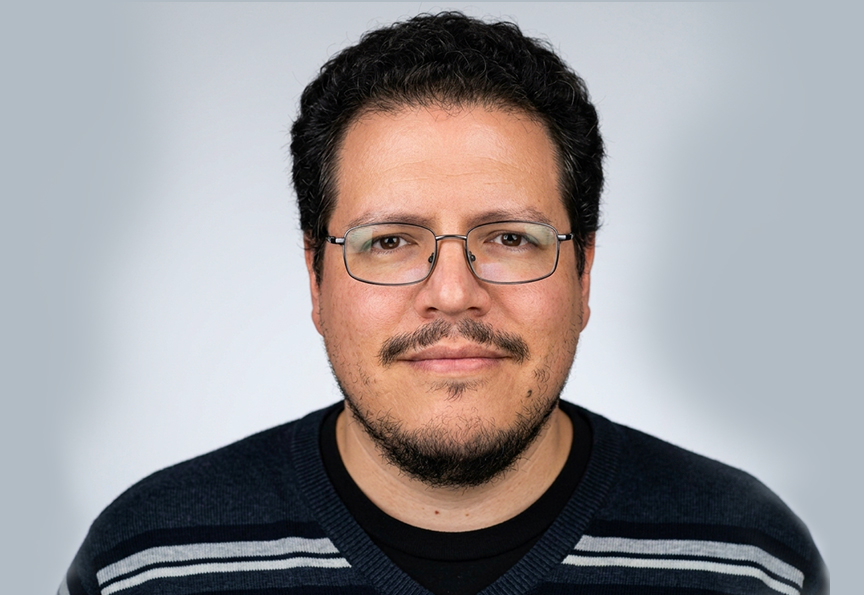
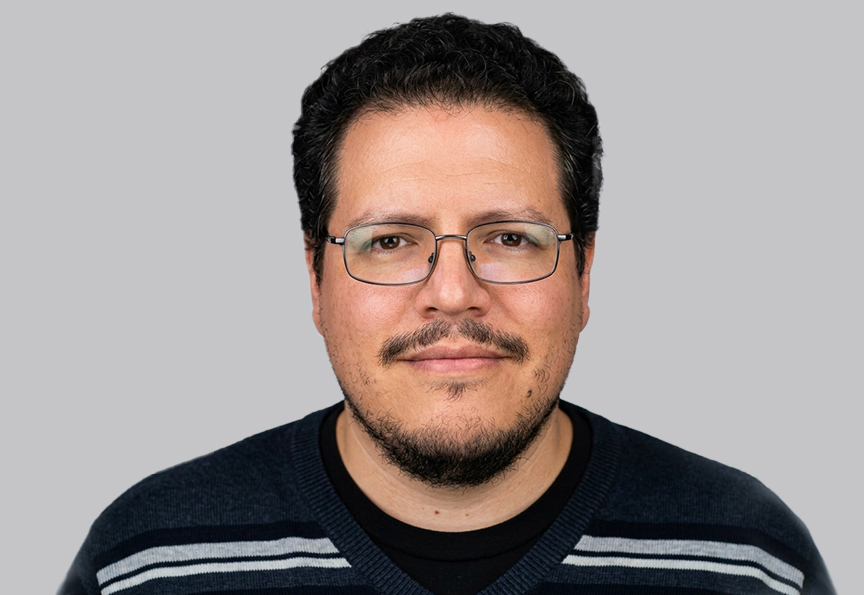
Address client review comments
1. Fix the broken Suiza-Bolivia 80th-anniversary logo: the filename
   used macOS's decomposed Unicode form (NFD) for its accented
   characters while the HTML reference used precomposed (NFC) —
   byte-different strings that happen to look identical, which
   resolves fine on a case/normalization-insensitive Mac filesystem
   but 404s on GitHub Pages' Linux host. Renamed to an ASCII-safe
   filename to avoid the whole class of bug.
2. Add UMSA, Embajada de Suecia, and planetGOLD to the footer's
   sponsor list (previously only Aceleratec and Embajada de Suiza).
6. Fill in six of the ten remaining "Sesiones informativas"
   placeholders with the confirmed panelists from Diego's cronograma
   (Noemí Tirado, Daniel Cruz, the mercury/gold-mining seminar's real
   title, Oscar Campanini, Armando Álvarez, and Håkan Tarras-Wahlberg).
7. Replace the placeholder contact email with the real one
   (comunicacion@aceleratec.org), now a working mailto: link.

Items 4 and 5 from the review were explicitly skipped per request.

diff --git a/site/index.html b/site/index.html
@@ -302,7 +302,7 @@
       <img src="assets/Logo-del-escudo-de-Suiza.png" alt="Escudo de Suiza">
       <img src="assets/Logo-de-la-Embajada-de-Suiza.jpg" alt="Logo de la Embajada de Suiza">
       </span>
-      <img src="assets/Logo-80-años-de-relaciones-diplomáticas-Suiza-Bolivia.jpg" alt="80 años de relaciones diplomáticas Suiza–Bolivia">
+      <img src="assets/Logo-80-anos-Suiza-Bolivia.jpg" alt="80 años de relaciones diplomáticas Suiza–Bolivia">
       <span class="sponsor-logos">
       <img src="assets/Logo-de-ONUDI.png" alt="Logo de ONUDI">
       <img src="assets/Logo-de-PlanetGOLD.png" alt="Logo de planetGOLD">
@@ -437,18 +437,18 @@
         <div class="day-row cont"><span class="date">Mar 13 oct</span><span class="time">09:45–10:00</span><span class="what">Foto oficial, preguntas y comentarios</span></div>
         <div class="day-row cont"><span class="date">Mar 13 oct</span><span class="time">10:00–10:30</span><span class="what">Desayuno y networking</span></div>
         <div class="day-row"><span class="date">13 – 18 oct</span><span class="time">—</span><span class="what">Difusión e inscripciones en facultades, carreras e instituciones socias<span class="where">Todos los socios</span></span></div>
-        <div class="day-row"><span class="date">Mar 20 oct</span><span class="time">19:00–20:30</span><span class="what">Salud: [Presentación 1]<span class="where">UMSA</span></span></div>
-        <div class="day-row"><span class="date">Jue 22 oct</span><span class="time">19:00–20:30</span><span class="what">Salud: [Presentación 2]<span class="where">OPS/OMS</span></span></div>
-        <div class="day-row"><span class="date">Mar 27 oct</span><span class="time">09:00–14:00</span><span class="what">Seminario «Presentación de resultados de investigación»<span class="where">UMSA · Paraninfo</span></span></div>
+        <div class="day-row"><span class="date">Mar 20 oct</span><span class="time">19:00–20:30</span><span class="what">Salud: Noemí Tirado<span class="where">UMSA</span></span></div>
+        <div class="day-row"><span class="date">Jue 22 oct</span><span class="time">19:00–20:30</span><span class="what"><span>Salud: Daniel Cruz<span class="tag-onsite">Presencial</span></span><span class="where">OPS/OMS</span></span></div>
+        <div class="day-row"><span class="date">Mar 27 oct</span><span class="time">09:00–14:00</span><span class="what">Seminario «Mercurio y minería aurífera en Bolivia: evidencia científica, impactos y desafíos para la acción»<span class="where">UMSA · Paraninfo</span></span></div>
         <div class="day-row cont"><span class="date">Mar 27 oct</span><span class="time">19:00–20:30</span><span class="what">Medio ambiente: [Presentación 3]<span class="where">IRD</span></span></div>
         <div class="day-row"><span class="date">Jue 29 oct</span><span class="time">19:00–20:30</span><span class="what">Medio ambiente: [Presentación 4]<span class="where">WCS</span></span></div>
         <div class="day-row"><span class="date">Mar 3 nov</span><span class="time">19:00–20:30</span><span class="what"><span>Medio ambiente: [Presentación 5]<span class="tag-onsite">Networking presencial</span></span><span class="where">UMSA</span></span></div>
         <div class="day-row"><span class="date">Jue 5 nov</span><span class="time">19:00–20:30</span><span class="what">Trazabilidad: [Presentación 6]<span class="where">Ministerio de Minería · AJAM · SENARECOM</span></span></div>
         <div class="day-row"><span class="date">Mar 10 nov</span><span class="time">19:00–20:30</span><span class="what"><span>Retos y dinámicas de la producción cooperativista: [Presentación 7]<span class="tag-onsite">Networking presencial</span></span><span class="where">Sector cooperativista · Empresas mineras · planetGOLD</span></span></div>
-        <div class="day-row"><span class="date">Jue 12 nov</span><span class="time">19:00–20:30</span><span class="what">Pueblos indígenas: [Presentación 8]<span class="where">CEDIB</span></span></div>
+        <div class="day-row"><span class="date">Jue 12 nov</span><span class="time">19:00–20:30</span><span class="what">Pueblos indígenas: Oscar Campanini<span class="where">CEDIB</span></span></div>
         <div class="day-row"><span class="date">Lun 16 nov</span><span class="time">17:00–20:30</span><span class="what"><span>Capacitación especializada: metodología de hackathon, pitch, validación y prototipado<span class="tag-onsite">Presencial</span></span><span class="where">Aceleratec · entrenamiento en pitch, preparación para jurados, validación acelerada de prototipos y networking</span></span></div>
-        <div class="day-row"><span class="date">Mié 18 nov</span><span class="time">19:00–20:30</span><span class="what">Sistemas de producción: [Presentación 9]<span class="where">UMSA</span></span></div>
-        <div class="day-row"><span class="date">Vie 20 nov</span><span class="time">19:00–20:30</span><span class="what">Trazabilidad: [Presentación 10]<span class="where">planetGOLD</span></span></div>
+        <div class="day-row"><span class="date">Mié 18 nov</span><span class="time">19:00–20:30</span><span class="what">Sistemas de producción: Armando Álvarez<span class="where">UMSA</span></span></div>
+        <div class="day-row"><span class="date">Vie 20 nov</span><span class="time">19:00–20:30</span><span class="what">Trazabilidad: Håkan Tarras-Wahlberg<span class="where">planetGOLD</span></span></div>
       </div>
     </div>
 
@@ -506,10 +506,13 @@
           <span class="h">Patrocinadores</span>
           <span class="item">Aceleratec</span>
           <span class="item">Embajada de Suiza</span>
+          <span class="item">UMSA</span>
+          <span class="item">Embajada de Suecia</span>
+          <span class="item">planetGOLD</span>
         </div>
         <div class="foot-col">
           <span class="h">Contacto</span>
-          <span class="item">[hello@goldforgoodhack.org]</span>
+          <a href="mailto:comunicacion@aceleratec.org">comunicacion@aceleratec.org</a>
           <span class="item">[@goldforgoodhack]</span>
         </div>
       </div>
